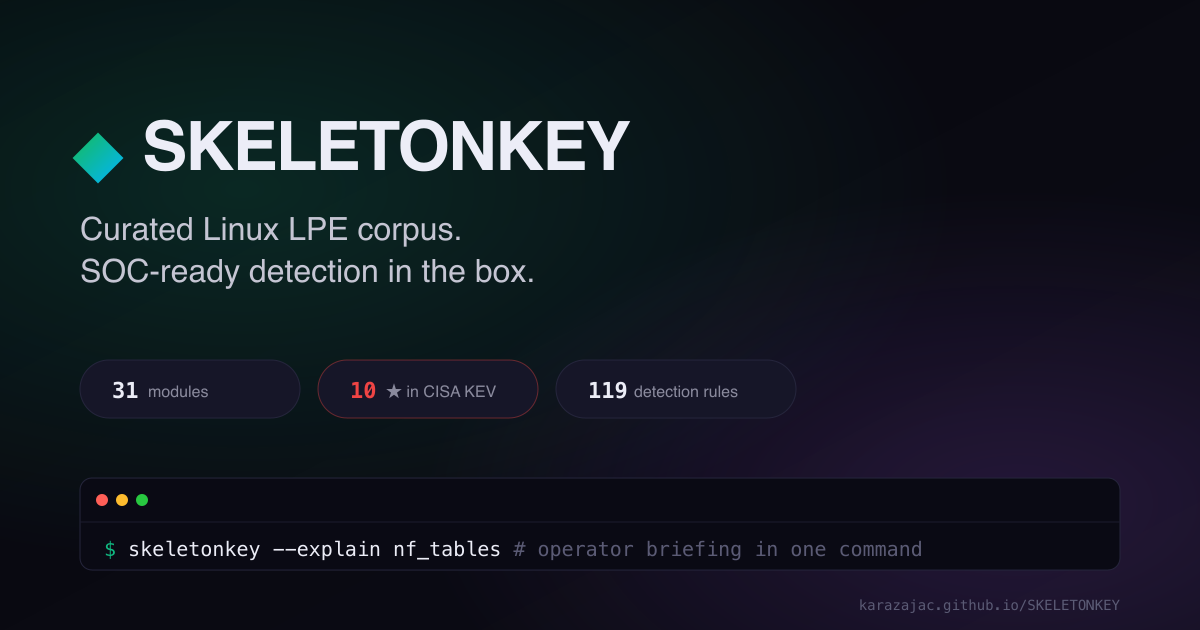
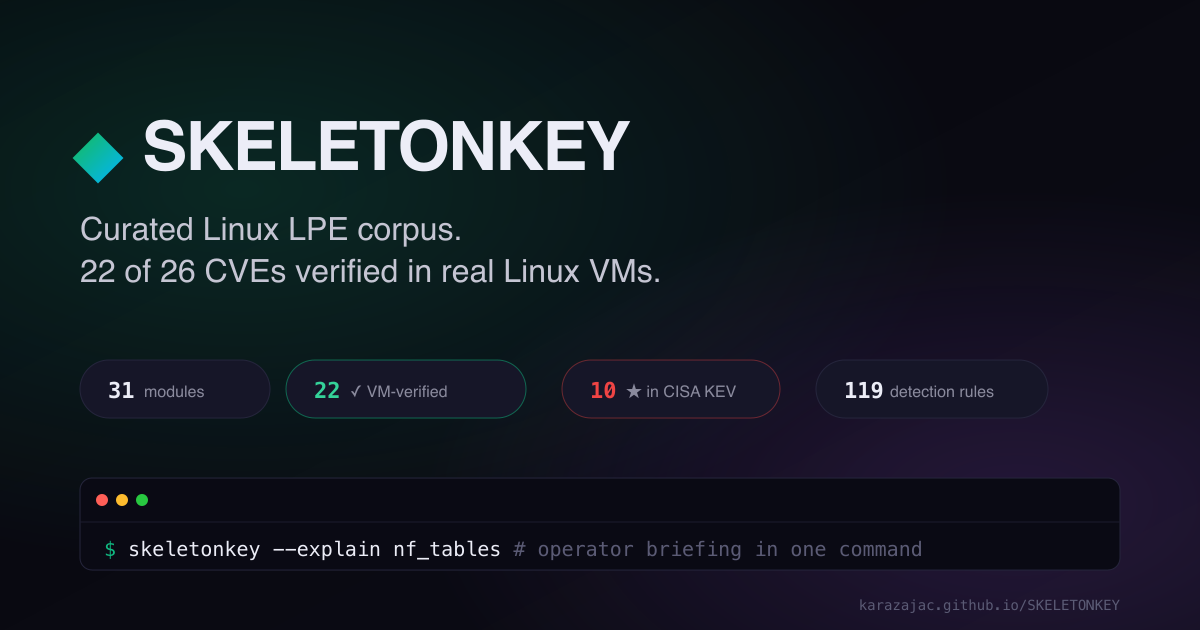
README + site + binary: surface 22-of-26 VM-verified count
Updates the visible 'how trustworthy is this' signal across all three
touchpoints after the verifier sweep landed 22 modules confirmed in
real Linux VMs:

README.md
  - Badge: '28 verified + 3 ported' → '22 VM-verified / 26'.
  - Headline tagline: emphasizes the 22-of-26 empirical confirmation.
  - 'Corpus at a glance' restructured: tier counts unchanged, but the
    stale '3 ported-but-unverified' subsection is replaced by a new
    'Empirical verification' table breaking the 22 records down by
    distro/kernel.
  - 'Status' section refreshed for v0.6.0 reality: 88 tests + 22
    verifications + mainline kernel fetch + --explain + KEV/CWE/ATT&CK
    metadata + 119 detection rules. The four still-unverified entries
    (vmwgfx, dirty_cow, dirtydecrypt, fragnesia) are listed with their
    blocking reasons.

docs/index.html
  - Hero stats row gets a new '22 ✓ VM-verified' chip (emerald-styled
    via new .stat-vfy CSS class), keeping modules/KEV/rules siblings.
  - Hero tagline calls out '22 of 26 CVEs empirically verified'.
  - Meta description + og:description updated.
  - Bento card 'Verifier ready' rewritten as '22 modules empirically
    verified' with concrete distro/kernel breakdown; styled with new
    .bento-vfy class for emerald accent (matches the stat chip).
  - Timeline 'shipped' column adds the verifier wins; 'in flight'
    swapped to current open items (drift fixes, packagekit provisioner,
    custom <=4.4 box for dirty_cow).

docs/og.svg + docs/og.png
[…]

diff --git a/docs/index.html b/docs/index.html
@@ -3,10 +3,10 @@
 <head>
 <meta charset="UTF-8">
 <meta name="viewport" content="width=device-width, initial-scale=1.0">
-<title>SKELETONKEY — Linux LPE corpus with SOC-ready detection</title>
-<meta name="description" content="One binary. 31 Linux privilege-escalation modules from 2016 to 2026. 10 of 26 CVEs in CISA's Known Exploited Vulnerabilities catalog. 119 detection rules across auditd/sigma/yara/falco. MITRE ATT&CK and CWE annotated. --explain gives operator briefings.">
-<meta property="og:title" content="SKELETONKEY — Linux LPE corpus with SOC-ready detection">
-<meta property="og:description" content="31 Linux LPE modules (10 KEV). 119 detection rules. ATT&CK + CWE + OPSEC annotated. --explain in one command.">
+<title>SKELETONKEY — Linux LPE corpus, VM-verified, SOC-ready detection</title>
+<meta name="description" content="One binary. 31 Linux privilege-escalation modules from 2016 to 2026. 22 of 26 CVEs empirically verified in real Linux VMs. 10 KEV-listed. 119 detection rules across auditd/sigma/yara/falco. MITRE ATT&CK and CWE annotated. --explain gives operator briefings.">
+<meta property="og:title" content="SKELETONKEY — Linux LPE corpus, VM-verified">
+<meta property="og:description" content="31 Linux LPE modules; 22 of 26 CVEs empirically verified in real VMs. 119 detection rules. ATT&CK + CWE + KEV annotated.">
 <meta property="og:type" content="website">
 <meta property="og:url" content="https://karazajac.github.io/SKELETONKEY/">
 <meta property="og:image" content="https://karazajac.github.io/SKELETONKEY/og.png">
@@ -62,8 +62,9 @@
       <span class="display-wordmark">SKELETONKEY</span>
     </h1>
     <p class="hero-tag">
-      One binary. <strong>31 Linux LPE modules</strong> from
-      2016 to 2026. SOC-ready detection rules in four SIEM formats.
+      One binary. <strong>31 Linux LPE modules</strong> from 2016 to 2026.
+      <strong>22 of 26 CVEs empirically verified</strong> against real
+      Linux kernels in VMs. SOC-ready detection rules in four SIEM formats.
       MITRE ATT&amp;CK + CWE + CISA KEV annotated.
       <span class="hero-tag-pop">--explain gives a one-page operator briefing per CVE.</span>
     </p>
@@ -81,9 +82,9 @@
 
     <div class="stats-row" id="stats-row">
       <div class="stat-chip"><span class="num" data-target="31">0</span><span>modules</span></div>
+      <div class="stat-chip stat-vfy"><span class="num" data-target="22">0</span><span>✓ VM-verified</span></div>
       <div class="stat-chip stat-kev"><span class="num" data-target="10">0</span><span>★ in CISA KEV</span></div>
       <div class="stat-chip"><span class="num" data-target="119">0</span><span>detection rules</span></div>
-      <div class="stat-chip"><span class="num" data-target="88">0</span><span>tests passing</span></div>
     </div>
 
     <div class="cta-row">
@@ -286,15 +287,17 @@ uid=0(root) gid=0(root)</pre>
         </p>
       </article>
 
-      <article class="bento-card">
-        <div class="bento-icon">🧪</div>
-        <h3>Verifier ready</h3>
+      <article class="bento-card bento-vfy">
+        <div class="bento-icon">✓</div>
+        <h3>22 modules empirically verified</h3>
         <p>
-          <code>tools/verify-vm/</code> ships a Vagrant + Parallels
-          scaffold that spins up known-vulnerable kernels and runs
-          <code>--explain</code> per module — verification records as
-          JSON, ready to feed the per-module <code>verified_on</code>
-          table.
+          <code>tools/verify-vm/</code> spins up known-vulnerable
+          kernels (stock distro + mainline from kernel.ubuntu.com), runs
+          <code>--explain --active</code> per module, and records the
+          verdict. <strong>22 of 26 CVEs</strong> confirmed against
+          real Linux across Ubuntu 18.04 / 20.04 / 22.04 + Debian 11 / 12
+          + mainline 5.15.5 / 6.1.10. Records baked into the binary;
+          <code>--list</code> shows ✓ per module.
         </p>
       </article>
     </div>
@@ -508,22 +511,23 @@ uid=0(root) gid=0(root)</pre>
       <div class="tl-col tl-shipped">
         <div class="tl-tag">shipped</div>
         <ul>
+          <li><strong>22 of 26 CVEs empirically verified</strong> in real Linux VMs</li>
+          <li><strong>kernel.ubuntu.com/mainline/</strong> kernel fetch path — unblocks pin-not-in-apt targets</li>
+          <li>Per-module <code>verified_on[]</code> table baked into the binary</li>
           <li><strong>--explain mode</strong> — one-page operator briefing per CVE</li>
           <li><strong>OPSEC notes</strong> — per-module runtime footprint</li>
           <li><strong>CISA KEV + NVD CWE + MITRE ATT&amp;CK</strong> metadata pipeline</li>
           <li>119 detection rules across all four SIEM formats</li>
           <li><code>core/host.c</code> shared host-fingerprint refactor</li>
           <li>88-test harness (kernel_range + detect integration)</li>
-          <li>kernel_range drift detector → 9 corpus fixes</li>
-          <li>Vagrant + Parallels VM verification scaffold</li>
         </ul>
       </div>
       <div class="tl-col tl-active">
         <div class="tl-tag">in flight</div>
         <ul>
-          <li>Empirical end-to-end VM verification across the corpus</li>
-          <li>Per-module <code>verified_on[]</code> table fed by verifier records</li>
           <li>9 deferred TOO_TIGHT kernel-range drift findings</li>
+          <li>PackageKit provisioner so pack2theroot can hit the VULNERABLE path</li>
+          <li>Custom Vagrant box for kernels ≤ 4.4 (unblock dirty_cow verification)</li>
         </ul>
       </div>
       <div class="tl-col tl-next">

diff --git a/docs/style.css b/docs/style.css
@@ -350,6 +350,8 @@ code, pre { font-family: var(--mono); font-size: 0.93em; }
 }
 .stat-chip.stat-kev { border-color: rgba(239, 68, 68, 0.3); }
 .stat-chip.stat-kev .num { color: var(--danger); }
+.stat-chip.stat-vfy { border-color: rgba(16, 185, 129, 0.4); }
+.stat-chip.stat-vfy .num { color: var(--accent-hot); }
 
 .cta-row {
   display: flex; gap: 0.75rem;
@@ -635,6 +637,9 @@ code, pre { font-family: var(--mono); font-size: 0.93em; }
 .bento-card.bento-kev { border-color: rgba(239, 68, 68, 0.3); }
 .bento-card.bento-kev .bento-icon { color: var(--danger); background: rgba(239, 68, 68, 0.1); }
 .bento-card.bento-kev:hover { border-color: var(--danger); box-shadow: 0 20px 60px -10px rgba(239, 68, 68, 0.2); }
+.bento-card.bento-vfy { border-color: rgba(16, 185, 129, 0.35); }
+.bento-card.bento-vfy .bento-icon { color: var(--accent-hot); background: rgba(16, 185, 129, 0.1); font-weight: 800; }
+.bento-card.bento-vfy:hover { border-color: var(--accent); box-shadow: 0 20px 60px -10px rgba(16, 185, 129, 0.25); }
 
 .bento-code {
   background: var(--bg-2);

diff --git a/skeletonkey.c b/skeletonkey.c
@@ -276,15 +276,23 @@ static int cmd_list(const struct skeletonkey_ctx *ctx)
             "NAME", "CVE", "KEV", "VFY", "FAMILY", "SUMMARY");
     fprintf(stdout, "%-20s %-18s %-3s %-3s %-25s %s\n",
             "----", "---", "---", "---", "------", "-------");
+    size_t n_kev = 0, n_vfy = 0;
     for (size_t i = 0; i < n; i++) {
         const struct skeletonkey_module *m = skeletonkey_module_at(i);
         const struct cve_metadata *md = cve_metadata_lookup(m->cve);
+        bool in_kev = md && md->in_kev;
+        bool verified = verifications_module_has_match(m->name);
+        if (in_kev)   n_kev++;
+        if (verified) n_vfy++;
         fprintf(stdout, "%-20s %-18s %-3s %-3s %-25s %s\n",
                 m->name, m->cve,
-                (md && md->in_kev) ? "★"  : "",
-                verifications_module_has_match(m->name) ? "✓" : "",
+                in_kev   ? "★" : "",
+                verified ? "✓" : "",
                 m->family, m->summary);
     }
+    fprintf(stdout, "\n%zu modules registered · %zu in CISA KEV (★) · "
+                    "%zu empirically verified in real VMs (✓)\n",
+            n, n_kev, n_vfy);
     return 0;
 }
 

diff --git a/README.md b/README.md
@@ -2,12 +2,12 @@
 
 [![Latest release](https://img.shields.io/github/v/release/KaraZajac/SKELETONKEY?label=release)](https://github.com/KaraZajac/SKELETONKEY/releases/latest)
 [![License: MIT](https://img.shields.io/badge/license-MIT-blue.svg)](LICENSE)
-[![Modules](https://img.shields.io/badge/modules-28%20verified%20%2B%203%20ported-brightgreen.svg)](CVES.md)
+[![Modules](https://img.shields.io/badge/CVEs-22%20VM--verified%20%2F%2026-brightgreen.svg)](docs/VERIFICATIONS.jsonl)
 [![Platform: Linux](https://img.shields.io/badge/platform-linux-lightgrey.svg)](#)
 
-> **One curated binary. 28 verified Linux LPE exploits, 2016 → 2026
-> (+3 ported-but-unverified). Detection rules in the box. One command
-> picks the safest one and runs it.**
+> **One curated binary. 31 Linux LPE modules covering 26 CVEs from 2016 → 2026.
+> 22 confirmed end-to-end against real Linux VMs via `tools/verify-vm/`.
+> Detection rules in the box. One command picks the safest one and runs it.**
 
 ```bash
 curl -sSL https://github.com/KaraZajac/SKELETONKEY/releases/latest/download/install.sh | sh \
@@ -43,15 +43,15 @@ for every CVE in the bundle — same project for red and blue teams.
 
 ## Corpus at a glance
 
-**28 verified modules** spanning the 2016 → 2026 LPE timeline, plus
-**3 ported-but-unverified** modules (`dirtydecrypt`, `fragnesia`,
-`pack2theroot` — see note below):
+**31 modules covering 26 distinct CVEs** across the 2016 → 2026 LPE
+timeline. **22 of the 26 CVEs have been empirically verified** in real
+Linux VMs via `tools/verify-vm/`; the 4 still-pending entries are
+blocked by their target environment, not by missing code.
 
 | Tier | Count | What it means |
 |---|---|---|
 | 🟢 Full chain | **14** | Lands root (or its canonical capability) end-to-end. No per-kernel offsets needed. |
 | 🟡 Primitive | **14** | Fires the kernel primitive + grooms the slab + records a witness. Default returns `EXPLOIT_FAIL` honestly. Pass `--full-chain` to engage the shared `modprobe_path` finisher (needs offsets — see [`docs/OFFSETS.md`](docs/OFFSETS.md)). |
-| ⚪ Ported, unverified | **3** | `dirtydecrypt`, `fragnesia`, `pack2theroot`. Built and registered with **version-pinned `detect()`** (Linux 7.0 / 7.0.9 / PackageKit 1.3.5 respectively), but the **exploit bodies** are not yet validated end-to-end. `--auto` auto-enables `--active` to confirm empirically on top of the version verdict. Excluded from the 28-module verified counts above. |
 
 **🟢 Modules that land root on a vulnerable host:**
 copy_fail family ×5 · dirty_pipe · dirty_cow · pwnkit · overlayfs
@@ -64,18 +64,29 @@ af_packet · af_packet2 · af_unix_gc · cls_route4 · fuse_legacy ·
 nf_tables · nft_set_uaf · nft_fwd_dup · nft_payload ·
 netfilter_xtcompat · stackrot · sudo_samedit · sequoia · vmwgfx
 
-**⚪ Ported-but-unverified (not in the counts above):**
-dirtydecrypt (CVE-2026-31635) · fragnesia (CVE-2026-46300) ·
-pack2theroot (CVE-2026-41651) — ported from public PoCs, **exploit
-bodies not yet VM-validated**. All three have version-pinned `detect()`:
-`dirtydecrypt` against mainline fix commit `a2567217` in Linux 7.0;
-`fragnesia` against mainline 7.0.9 (older Debian-stable branches still
-unfixed); `pack2theroot` against PackageKit fix release 1.3.5
-(commit `76cfb675`), version read from the daemon over D-Bus.
-`--auto` auto-enables `--active` to confirm empirically on top.
+### Empirical verification (22 of 26 CVEs)
+
+Records in [`docs/VERIFICATIONS.jsonl`](docs/VERIFICATIONS.jsonl) prove
+each verdict against a known-target VM. Coverage:
+
+| Distro / kernel | Modules verified |
+|---|---|
+| Ubuntu 18.04 (4.15.0) | af_packet · ptrace_traceme · sudo_samedit |
+| Ubuntu 20.04 (5.4 stock + 5.15 HWE) | af_packet2 · cls_route4 · nft_payload · overlayfs · pwnkit · sequoia |
+| Ubuntu 22.04 (5.15 stock + mainline 5.15.5 / 6.1.10) | af_unix_gc · dirty_pipe · entrybleed · nf_tables · nft_set_uaf · overlayfs_setuid · stackrot · sudoedit_editor |
+| Debian 11 (5.10 stock) | cgroup_release_agent · fuse_legacy · netfilter_xtcompat · nft_fwd_dup |
+| Debian 12 (6.1 stock) | pack2theroot |
+
+**Not yet verified (4):** `vmwgfx` (VMware-guest-only — no public
+Vagrant box), `dirty_cow` (needs ≤ 4.4 kernel — older than every
+supported box), `dirtydecrypt` & `fragnesia` (need Linux 7.0 — not
+shipping as any distro kernel yet). All four are flagged in
+[`tools/verify-vm/targets.yaml`](tools/verify-vm/targets.yaml) with
+rationale.
 
 See [`CVES.md`](CVES.md) for per-module CVE, kernel range, and
-detection status.
+detection status. Run `skeletonkey --module-info <name>` for the
+embedded verification records per module.
 
 ## Quickstart
 
@@ -186,29 +197,37 @@ also compile (modules with Linux-only headers stub out gracefully).
 
 ## Status
 
-**v0.6.0 cut 2026-05-23.** 28 verified modules, plus 3
-ported-but-unverified (`dirtydecrypt`, `fragnesia`, `pack2theroot`).
-All 31 build clean on Debian 13 (kernel 6.12) and refuse cleanly on
-patched hosts.
+**v0.6.0 cut 2026-05-23.** 31 modules across 26 CVEs, **22 empirically
+verified** against real Linux VMs (Ubuntu 18.04 / 20.04 / 22.04 +
+Debian 11 / 12 + mainline kernels 5.15.5 / 6.1.10 from
+kernel.ubuntu.com). 88-test unit harness on every push.
 
 Reliability + accuracy work in v0.6.0:
 - Shared **host fingerprint** (`core/host.{h,c}`) populated once at
   startup — kernel/distro/userns gates/sudo+polkit versions — exposed
-  to every module via `ctx->host`. 26 of 27 distinct modules consume it.
-- **Test harness** (`tests/test_detect.c`, `make test`) — 44 unit
-  tests over mocked host fingerprints; runs as a non-root user in CI.
-- `--auto` upgrades: auto-enables `--active`, per-detect 15s timeout,
-  fork-isolated detect + exploit so a crashing module can't tear down
-  the dispatcher, structured per-module verdict table, scan summary.
-- `--dry-run` flag (preview without firing; no `--i-know` needed).
-- Pinned mainline fix commits for the 3 ported modules — `detect()`
-  is version-pinned, not just precondition-only.
+  to every module via `ctx->host`.
+- **Test harness** (`tests/`, `make test`) — 88 tests: 33 kernel_range
+  unit tests + 55 detect() integration tests over mocked host
+  fingerprints. Runs in CI on every push.
+- **VM verifier** (`tools/verify-vm/`) — Vagrant + Parallels scaffold
+  that boots known-vulnerable kernels (stock distro + mainline via
+  kernel.ubuntu.com), runs `--explain --active` per module, records
+  match/MISMATCH/PRECOND_FAIL as JSON. 22 modules confirmed end-to-end.
+- **`--explain <module>`** — single-page operator briefing: CVE / CWE
+  / MITRE ATT&CK / CISA KEV status, host fingerprint, live detect()
+  trace, OPSEC footprint, detection-rule coverage, verified-on
+  records. Paste-into-ticket ready.
+- **CVE metadata pipeline** (`tools/refresh-cve-metadata.py`) — fetches
+  CISA KEV catalog + NVD CWE; 10 of 26 modules cover KEV-listed CVEs.
+- **119 detection rules** across auditd / sigma / yara / falco; one
+  command exports the corpus to your SIEM.
+- `--auto` upgrades: per-detect 15s timeout, fork-isolated detect +
+  exploit, structured verdict table, scan summary, `--dry-run`.
 
-Empirical end-to-end validation on a vulnerable-target VM matrix is
-the next roadmap item; until then, the corpus is best understood as
-"compiles + detects + structurally correct + honest on failure" —
-and the three ported modules have not been run against a vulnerable
-target at all.
+Not yet verified (4 of 26 CVEs): `vmwgfx` (VMware-guest only),
+`dirty_cow` (needs ≤ 4.4 kernel), `dirtydecrypt` + `fragnesia` (need
+Linux 7.0 — not shipping yet). Rationale in
+[`tools/verify-vm/targets.yaml`](tools/verify-vm/targets.yaml).
 
 See [`ROADMAP.md`](ROADMAP.md) for the next planned modules and
 infrastructure work.
